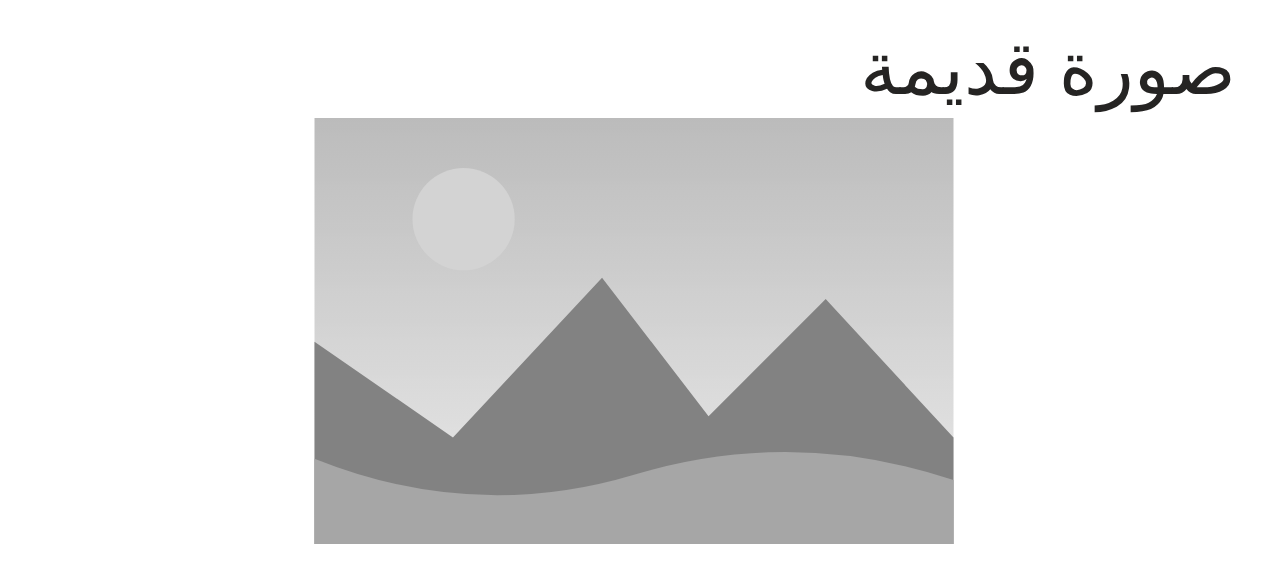
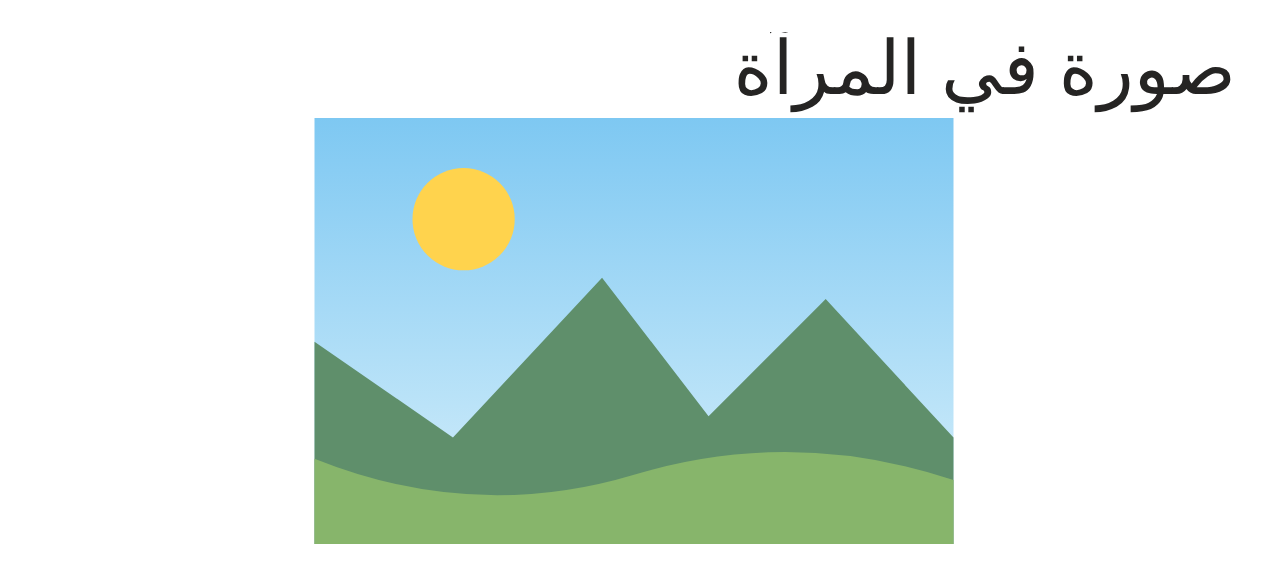
الصور: أنماط الصورة + الترتيب + الحجم فقط (بلا «الضبط») — تمارين جديدة: تأثيرات الصورة، إحضار للأمام، التدوير والقلب
Claude-Session: https://claude.ai/code/session_01SbWiHNL6HNT2SQV93v4NLa

diff --git a/js/morepics.js b/js/morepics.js
@@ -97,14 +97,22 @@ const IM4=PIC({t:'أنماط الصورة وحدودها',goalImg:'img/m-pic4.pn
   Q('حدّ أخضر',()=>isCol(pic0()?.dataset.border,C_GRN),pic0,'تنسيق الصورة ← حد الصورة ← أخضر','picBorder',{tab:'pformat'})]});
 IM4.reqs[0].fixFn=()=>{const p=pic0()?.dataset.ps;const n=PSTYLES.find(x=>x.id===p);return p&&p!=='none'&&p!=='rounded'?`اخترتَ «${n?.name}» — المطلوب «مستطيل مستدير مظلل».`:null};
 
-const IM5=PIC({t:'ألوان الصورة وتدويرها',goalImg:'img/m-pic5.png',skills:['لون الصورة (إعادة التلوين)','قلب أفقي'],
- intro:'اجعل الصورة رمادية كالصور القديمة، واقلبها أفقيًا فتصير الشمس على اليسار.',
- setup:DOCP(`<p class="wtitle">صورة قديمة</p><p style="text-align:center">${PIC_IN(0,320)}</p><p><br></p>`),
- reqs:[Q('الصورة رمادية',()=>/grayscale\(1\)$/.test(pic0()?.dataset.pcol||'')||pic0()?.dataset.pcol==='grayscale(1)',pic0,'انقر على الصورة ← تنسيق الصورة ← لون ← تدرّج رمادي','picColor',{tab:'pformat',mi:['picColor','grayscale(1)','تدرّج رمادي']}),
-  Q('مقلوبة أفقيًا (الشمس على اليسار)',()=>{const d=pic0()?.dataset;return !!d&&!!d.flipH&&!d.flipV&&(+d.rot||0)%360===0},pic0,'تنسيق الصورة ← تدوير ← قلب أفقي','rotate',{tab:'pformat',mi:['rotate','flipH','قلب أفقي']})]});
-IM5.reqs[0].fixFn=()=>{const c=pic0()?.dataset.pcol;return c&&c!=='none'&&c!=='grayscale(1)'?'هذا لون آخر — اختر «تدرّج رمادي» (الثاني).':null};
-IM5.reqs[1].fixFn=()=>{const d=pic0()?.dataset;if(!d)return null;if(+d.rot)return 'هذا تدوير وليس قلبًا. اختر «إعادة التعيين» ثم «قلب أفقي».';if(d.flipV)return 'هذا قلب رأسي (الصورة مقلوبة رأسًا على عقب). المطلوب «قلب أفقي».';return null};
-
+const IM5=PIC({t:'التدوير والقلب',goalImg:'img/m-pic5.png',skills:['ترتيب ← تدوير','قلب أفقي'],
+ intro:'اقلب الصورة أفقيًّا (مثل المرآة) فتصير الشمس على اليسار. (مجموعة «ترتيب» ← تدوير)',
+ setup:DOCP(`<p class="wtitle">صورة في المرآة</p><p style="text-align:center">${PIC_IN(0,320)}</p><p><br></p>`),
+ reqs:[Q('مقلوبة أفقيًّا (الشمس على اليسار)',()=>{const d=pic0()?.dataset;return !!d&&!!d.flipH&&!d.flipV&&(+d.rot||0)%360===0},pic0,'انقر على الصورة ← تنسيق الصورة ← تدوير ← قلب أفقي','rotate',{tab:'pformat',mi:['rotate','flipH','قلب أفقي']})]});
+IM5.reqs[0].fixFn=()=>{const d=pic0()?.dataset;if(!d)return null;if(+d.rot)return 'هذا تدوير وليس قلبًا. اختر «تدوير» ← «إعادة التعيين» ثم «قلب أفقي».';if(d.flipV)return 'هذا قلب رأسي (رأسًا على عقب). المطلوب «قلب أفقي».';return null};
+const IM7=PIC({t:'تأثيرات الصورة',goalImg:'img/m-pic7.png',skills:['أنماط الصورة ← تأثيرات الصورة','انعكاس'],
+ intro:'أعطِ الصورة تأثير «انعكاس» كأنها فوق الماء.',
+ setup:DOCP(`<p class="wtitle">صورة على الماء</p><p style="text-align:center">${PIC_IN(2,300)}</p><p><br></p><p><br></p>`),
+ reqs:[Q('تأثير «انعكاس»',()=>pic0()?.dataset.fx==='reflection',pic0,'انقر على الصورة ← تنسيق الصورة ← تأثيرات الصورة ← انعكاس','picEffects',{tab:'pformat',mi:['picEffects','reflection','انعكاس']})]});
+IM7.reqs[0].fixFn=()=>{const f=pic0()?.dataset.fx;return f&&f!=='none'&&f!=='reflection'?'هذا تأثير آخر — اختر «انعكاس».':null};
+const zOf=o=>!o?0:o.dataset.wrap==='behind'?-100:(+o.dataset.z||0);
+const IM8=PIC({t:'إحضار للأمام وإرسال للخلف',goalImg:'img/m-pic8.png',skills:['ترتيب ← إحضار للأمام','إرسال للخلف'],
+ intro:'الوردة مختفية خلف صورة الجبال. أحضرها للأمام حتى تظهر فوق الجبال كما في الصورة.',
+ setup:{html:`<p class="wtitle">من في الأمام؟</p><p><br></p><p><br></p><p><br></p><p><br></p><p><br></p><p><br></p><p><br></p>`,after:()=>{const b=firstBody();const t=document.createElement('div');t.innerHTML=picHTML(SAMPLE_IMGS[0],340,null,'')+picHTML(SAMPLE_IMGS[3],180,null,'');const [m,f]=[...t.children];[[m,40,60,1],[f,250,110,0]].forEach(([o,x,y,z])=>{o.dataset.wrap='front';o.dataset.z=z;placeFloat(o,b,x,y);applyObj(o)})}},
+ reqs:[Q('الوردة فوق الجبال',()=>{const ps=picsAll();const f=ps.find(o=>imgIdx(o)===3),m=ps.find(o=>imgIdx(o)===0);return !!f&&!!m&&zOf(f)>zOf(m)},()=>picsAll().find(o=>imgIdx(o)===3),'انقر على الوردة ← تنسيق الصورة ← إحضار للأمام (أو انقر على الجبال ← إرسال للخلف)','forward',{tab:'pformat'}),
+  N(Q('الصورتان في مكانهما',()=>picsAll().length===2,()=>pic0(),'لا تحذف أيًّا من الصورتين'),0)]});
 const IM6=PIC({t:'اقتصاص الصورة',goalImg:'img/m-pic6.png',skills:['اقتصاص','المقابض السوداء'],
  intro:'أظهِر الوردة فقط: قصّ الأطراف الفارغة من اليمين واليسار والأعلى. (اقتصاص ← اسحب المقابض السوداء إلى الداخل ← انقر خارج الصورة)',
  setup:DOCP(`<p class="wtitle">الوردة فقط</p><p style="text-align:center">${PIC_IN(3,360)}</p><p><br></p>`),
@@ -578,12 +586,12 @@ MORE_PICS_T2=[['الكتابة',[TX1,MK1,RD1,TX2]],['التحديد',[SL1,SL2]],
 
 /* ---------- topics ---------- */
 const MORE_PICS={
- t4:[['الصور',[IM1,IM2,IM3,IM4,IM5,IM6]],['الأشكال',[SH1,SH2,SH3,SH4,SH5,SH6]],['WordArt',[WA1,WA2,WA3]]],
+ t4:[['الصور: الإدراج والحجم',[IM1,IM2,IM6]],['الصور: أنماط الصورة',[IM4,IM7]],['الصور: الترتيب',[IM3,IM5,IM8]],['الأشكال',[SH1,SH2,SH3,SH4,SH5,SH6]],['WordArt',[WA1,WA2,WA3]]],
  t6:[['الرأس والتذييل',[HF1,HF2,HF6,HF5]],['ترقيم الصفحات',[HF3,HF4]]],
  t8:[['الرموز',[SY1,SY2]],['التاريخ',[DT1,DT2]],['المعادلات',[EQ1,EQ2,EQ3]]],
  t9:[['الأعمدة',[CO1,CO2,CO3]]],
 };
-const MORE_IMG={IM1:'m-pic1',IM2:'m-pic2',IM3:'m-pic3',IM4:'m-pic4',IM5:'m-pic5',IM6:'m-pic6',SH1:'m-shp1',SH2:'m-shp2',SH3:'m-shp3',SH4:'m-shp4',SH5:'m-shp5',SH6:'m-shp6',WA1:'m-wa1',WA2:'m-wa2',WA3:'m-wa3',HF1:'m-hf1',HF2:'m-hf2',HF3:'m-hf3',HF4:'m-hf4',HF5:'m-hf5',HF6:'m-hf6',SY1:'m-sym1',SY2:'m-sym2',DT1:'m-date1',DT2:'m-date2',EQ1:'m-eq1',EQ2:'m-eq2',EQ3:'m-eq3',CO1:'m-col1',CO2:'m-col2',CO3:'m-col3'};
+const MORE_IMG={IM1:'m-pic1',IM2:'m-pic2',IM3:'m-pic3',IM4:'m-pic4',IM5:'m-pic5',IM6:'m-pic6',IM7:'m-pic7',IM8:'m-pic8',SH1:'m-shp1',SH2:'m-shp2',SH3:'m-shp3',SH4:'m-shp4',SH5:'m-shp5',SH6:'m-shp6',WA1:'m-wa1',WA2:'m-wa2',WA3:'m-wa3',HF1:'m-hf1',HF2:'m-hf2',HF3:'m-hf3',HF4:'m-hf4',HF5:'m-hf5',HF6:'m-hf6',SY1:'m-sym1',SY2:'m-sym2',DT1:'m-date1',DT2:'m-date2',EQ1:'m-eq1',EQ2:'m-eq2',EQ3:'m-eq3',CO1:'m-col1',CO2:'m-col2',CO3:'m-col3'};
 Object.assign(MORE_IMG,{TXT_HW:'m-hw',MK1:'m-mk1',RD1:'m-rd1',SL1:'m-sl1',SL2:'m-sl2',PG1:'m-pg1',PG2:'m-pg2',PG3:'m-pg3',LS1:'m-ls1',LS2:'m-ls2',LS3:'m-ls3',LS4:'m-ls4',LS5:'m-ls5',TX1:'m-tx1',TX2:'m-tx2',TX3:'m-tx3',TX4:'m-tx4',TX5:'m-tx5',TX6:'m-tx6',TX7:'m-tx7',TX8:'m-tx8',TX9:'m-tx9',TX10:'m-tx10',TX11:'m-tx11',TX12:'m-tx12',BA0:'m-b0',BA1:'m-b1',BA2:'m-b2',BA3:'m-b3',BA4:'m-b4',BA5:'m-b5',BA6:'m-b6',BA7:'m-b7'});
 var MORE_PICS_T2;
 (function(){

diff --git a/js/topics-meta.js b/js/topics-meta.js
@@ -1,1 +1,1 @@
-window.TOPICS_META=[{"id": "t1", "title": "ابدأ مع Word", "learn": ["l0", "l1", "l2", "l3", "l4", "l5", "l6", "l7"], "tasks": [["t0", "صغّر نافذة وورد ثم أعِدها", false], ["t1", "نفّذ: من الحاسوب إلى أول مستند", true]]}, {"id": "t2", "title": "الكتابة والتنسيق", "learn": ["l0", "l1", "l2", "l3", "l4", "l5", "l6", "l7", "l8", "l9", "l10", "l11", "l12", "l13", "l14", "l15", "l16", "l17", "l18"], "tasks": [["t0", "الواجب الكبير: نشرة العلوم", true]]}, {"id": "t3", "title": "تنسيق الصفحة", "learn": ["l0", "l1", "l2", "l3", "l4", "l5", "l6"], "tasks": [["t0", "نفّذ: جهّز الصفحة", true]]}, {"id": "t4", "title": "الصور والأشكال وWordArt", "learn": ["l0", "l1", "l2", "l3", "l4", "l5", "l6", "l7", "l8", "l9", "l10", "l11", "l12", "l13", "l14"], "tasks": [["t0", "مشكلة: الصورة لا تتحرّك", false], ["t1", "نفّذ: صورة في التقرير", true], ["t2", "نفّذ: نجمة «ابدأ»", true]]}, {"id": "t5", "title": "الجداول", "learn": ["l0", "l1", "l2", "l3", "l4", "l5", "l6", "l7", "l8", "l9", "l10", "l11", "l12", "l13", "l14", "l15", "l16", "l17", "l18"], "tasks": [["t0", "تحدٍّ: أعد رسم جدول المبنى", true], ["t1", "مشكلة: Delete لم يحذف الجدول", false], ["t2", "مشكلة: عنوان الجدول في الخلية الأولى فقط", false], ["t3", "مشكلة: Enter لم ينقلني للخلية التالية", false]]}, {"id": "t6", "title": "الرأس والتذييل والترقيم", "learn": ["l0", "l1", "l2", "l3", "l4", "l5"], "tasks": [["t0", "اجعل الأرقام بالحروف: أ، ب، ج", false], ["t1", "نفّذ: رأس وتذييل التقرير", true]]}, {"id": "t7", "title": "المحتويات والحواشي والتعليقات", "learn": ["l0", "l1", "l2", "l3", "l4", "l5"], "tasks": [["t0", "نفّذ: جدول محتويات صحيح", true], ["t1", "نفّذ: حواشي التقرير", true]]}, {"id": "t8", "title": "الرموز والتاريخ والمعادلات", "learn": ["l0", "l1", "l2", "l3", "l4", "l5", "l6"], "tasks": [["t0", "نفّذ: رموز صحيحة", true], ["t1", "نفّذ: معادلات الرياضيات", true]]}, {"id": "t9", "title": "الأعمدة", "learn": ["l0", "l1", "l2"], "tasks": []}];
+window.TOPICS_META=[{"id": "t1", "title": "ابدأ مع Word", "learn": ["l0", "l1", "l2", "l3", "l4", "l5", "l6", "l7"], "tasks": [["t0", "صغّر نافذة وورد ثم أعِدها", false], ["t1", "نفّذ: من الحاسوب إلى أول مستند", true]]}, {"id": "t2", "title": "الكتابة والتنسيق", "learn": ["l0", "l1", "l2", "l3", "l4", "l5", "l6", "l7", "l8", "l9", "l10", "l11", "l12", "l13", "l14", "l15", "l16", "l17", "l18"], "tasks": [["t0", "الواجب الكبير: نشرة العلوم", true]]}, {"id": "t3", "title": "تنسيق الصفحة", "learn": ["l0", "l1", "l2", "l3", "l4", "l5", "l6"], "tasks": [["t0", "نفّذ: جهّز الصفحة", true]]}, {"id": "t4", "title": "الصور والأشكال وWordArt", "learn": ["l0", "l1", "l2", "l3", "l4", "l5", "l6", "l7", "l8", "l9", "l10", "l11", "l12", "l13", "l14", "l15", "l16"], "tasks": [["t0", "مشكلة: الصورة لا تتحرّك", false], ["t1", "نفّذ: صورة في التقرير", true], ["t2", "نفّذ: نجمة «ابدأ»", true]]}, {"id": "t5", "title": "الجداول", "learn": ["l0", "l1", "l2", "l3", "l4", "l5", "l6", "l7", "l8", "l9", "l10", "l11", "l12", "l13", "l14", "l15", "l16", "l17", "l18"], "tasks": [["t0", "تحدٍّ: أعد رسم جدول المبنى", true], ["t1", "مشكلة: Delete لم يحذف الجدول", false], ["t2", "مشكلة: عنوان الجدول في الخلية الأولى فقط", false], ["t3", "مشكلة: Enter لم ينقلني للخلية التالية", false]]}, {"id": "t6", "title": "الرأس والتذييل والترقيم", "learn": ["l0", "l1", "l2", "l3", "l4", "l5"], "tasks": [["t0", "اجعل الأرقام بالحروف: أ، ب، ج", false], ["t1", "نفّذ: رأس وتذييل التقرير", true]]}, {"id": "t7", "title": "المحتويات والحواشي والتعليقات", "learn": ["l0", "l1", "l2", "l3", "l4", "l5"], "tasks": [["t0", "نفّذ: جدول محتويات صحيح", true], ["t1", "نفّذ: حواشي التقرير", true]]}, {"id": "t8", "title": "الرموز والتاريخ والمعادلات", "learn": ["l0", "l1", "l2", "l3", "l4", "l5", "l6"], "tasks": [["t0", "نفّذ: رموز صحيحة", true], ["t1", "نفّذ: معادلات الرياضيات", true]]}, {"id": "t9", "title": "الأعمدة", "learn": ["l0", "l1", "l2"], "tasks": []}];

diff --git a/index.html b/index.html
@@ -3,14 +3,14 @@
 <head>
 <meta http-equiv="Cache-Control" content="no-cache, no-store, must-revalidate"><meta http-equiv="Pragma" content="no-cache"><meta http-equiv="Expires" content="0">
 <script>window.LW=()=>document.documentElement.clientWidth||innerWidth;window.LH=()=>document.documentElement.clientHeight||innerHeight;</script>
-<script>window.APPV="11201352";fetch("version.json?"+Date.now(),{cache:"no-store"}).then(r=>r.json()).then(j=>{if(j.v&&j.v!==window.APPV){const k="wl-reload-"+j.v;if(!sessionStorage.getItem(k)){sessionStorage.setItem(k,1);location.replace(location.pathname+"?v="+j.v+location.hash)}}}).catch(()=>{});</script>
+<script>window.APPV="11201353";fetch("version.json?"+Date.now(),{cache:"no-store"}).then(r=>r.json()).then(j=>{if(j.v&&j.v!==window.APPV){const k="wl-reload-"+j.v;if(!sessionStorage.getItem(k)){sessionStorage.setItem(k,1);location.replace(location.pathname+"?v="+j.v+location.hash)}}}).catch(()=>{});</script>
 <meta charset="utf-8">
 <meta name="viewport" content="width=device-width,initial-scale=1">
 <title>برنامج وورد — دليل التطبيق العملي</title>
 <link rel="preconnect" href="https://fonts.googleapis.com">
 <link href="https://fonts.googleapis.com/css2?family=Tajawal:wght@400;500;700;800&display=swap" rel="stylesheet">
-<link rel="stylesheet" href="css/word.css?v=11201352">
-<link rel="stylesheet" href="css/app.css?v=11201352">
+<link rel="stylesheet" href="css/word.css?v=11201353">
+<link rel="stylesheet" href="css/app.css?v=11201353">
 </head>
 <body>
 <div id="gate" hidden></div>
@@ -29,30 +29,30 @@
 </div>
 <div id="ovl" style="position:absolute;left:0;top:0;width:0;height:0;z-index:1200"><div id="ring"></div><div id="bubble"></div><div id="rtip"></div></div><div id="blocker"></div><button id="stopDemo">⏹ إيقاف المشاهدة</button>
 <div id="cursor"><svg viewBox="0 0 24 24" width="30" height="30"><path d="M4 2l15 11-7 1 4 8-3 1.5-4-8-5 5z" fill="#fff" stroke="#111" stroke-width="1.4" stroke-linejoin="round"/></svg></div>
-<script src="js/zoomfix.js?v=11201352"></script>
-<script src="js/icons.js?v=11201352"></script>
-<script src="js/data.js?v=11201352"></script>
-<script src="js/ribbon.js?v=11201352"></script>
-<script src="js/doc.js?v=11201352"></script>
-<script src="js/features.js?v=11201352"></script>
-<script src="js/tables.js?v=11201352"></script>
-<script src="js/objects.js?v=11201352"></script>
-<script src="js/learn.js?v=11201352"></script>
-<script src="js/content.js?v=11201352"></script>
-<script src="js/lessons.js?v=11201352"></script>
-<script src="js/tproject-snaps.js?v=11201352"></script>
-<script src="js/tproject.js?v=11201352"></script>
-<script src="js/tablepics.js?v=11201352"></script>
-<script src="js/tabletools.js?v=11201352"></script>
-<script src="js/tablemouse.js?v=11201352"></script>
-<script src="js/parapro.js?v=11201352"></script>
-<script src="js/selbar.js?v=11201352"></script>
-<script src="js/guide.js?v=11201352"></script>
-<script src="js/curriculum.js?v=11201352"></script>
-<script src="js/morepics.js?v=11201352"></script>
-<script src="js/topics-meta.js?v=11201352"></script>
-<script src="js/config.js?v=11201352"></script>
-<script src="js/cloud.js?v=11201352"></script>
+<script src="js/zoomfix.js?v=11201353"></script>
+<script src="js/icons.js?v=11201353"></script>
+<script src="js/data.js?v=11201353"></script>
+<script src="js/ribbon.js?v=11201353"></script>
+<script src="js/doc.js?v=11201353"></script>
+<script src="js/features.js?v=11201353"></script>
+<script src="js/tables.js?v=11201353"></script>
+<script src="js/objects.js?v=11201353"></script>
+<script src="js/learn.js?v=11201353"></script>
+<script src="js/content.js?v=11201353"></script>
+<script src="js/lessons.js?v=11201353"></script>
+<script src="js/tproject-snaps.js?v=11201353"></script>
+<script src="js/tproject.js?v=11201353"></script>
+<script src="js/tablepics.js?v=11201353"></script>
+<script src="js/tabletools.js?v=11201353"></script>
+<script src="js/tablemouse.js?v=11201353"></script>
+<script src="js/parapro.js?v=11201353"></script>
+<script src="js/selbar.js?v=11201353"></script>
+<script src="js/guide.js?v=11201353"></script>
+<script src="js/curriculum.js?v=11201353"></script>
+<script src="js/morepics.js?v=11201353"></script>
+<script src="js/topics-meta.js?v=11201353"></script>
+<script src="js/config.js?v=11201353"></script>
+<script src="js/cloud.js?v=11201353"></script>
 <script>cloudInit();</script>
 </body>
 </html>

diff --git a/admin.html b/admin.html
@@ -5,7 +5,7 @@
 <meta name="viewport" content="width=device-width,initial-scale=1">
 <title>لوحة المعلّمة — برنامج وورد</title>
 <link href="https://fonts.googleapis.com/css2?family=Tajawal:wght@400;500;700;800&display=swap" rel="stylesheet">
-<link rel="stylesheet" href="css/app.css?v=11201352">
+<link rel="stylesheet" href="css/app.css?v=11201353">
 <style>
 body{overflow:auto;height:auto;min-height:100vh}
 .atop{display:flex;align-items:center;gap:12px;padding:12px 20px;background:var(--side);color:#fff;position:sticky;top:0;z-index:5}
@@ -38,8 +38,8 @@ table{width:100%;border-collapse:collapse;font-size:14px}th,td{border-bottom:1px
 <div class="atop"><span class="logo">W</span><b>لوحة المعلّمة</b><span class="sp"></span><span id="who" class="muted" style="color:#93a2ba"></span><a href="index.html">فتح الموقع</a><button id="out">خروج</button></div>
 <div class="atabs" id="atabs"><button data-v="track" class="on">📊 المتابعة</button><button data-v="unlock">🔓 فتح الدروس</button><button data-v="students">👩🎓 الطلاب</button><button data-v="sections">🏫 الشعب</button></div>
 <div class="wrap" id="view"></div>
-<script src="js/config.js?v=11201352"></script>
-<script src="js/topics-meta.js?v=11201352"></script>
+<script src="js/config.js?v=11201353"></script>
+<script src="js/topics-meta.js?v=11201353"></script>
 <script>
 const inSec=(st,id)=>st.section_id===id||(st.extra||[]).includes(id);
 const $=s=>document.querySelector(s),$$=s=>[...document.querySelectorAll(s)];const T=(window.ONLY_TOPICS?window.TOPICS_META.filter(t=>ONLY_TOPICS.includes(t.id)):window.TOPICS_META);
